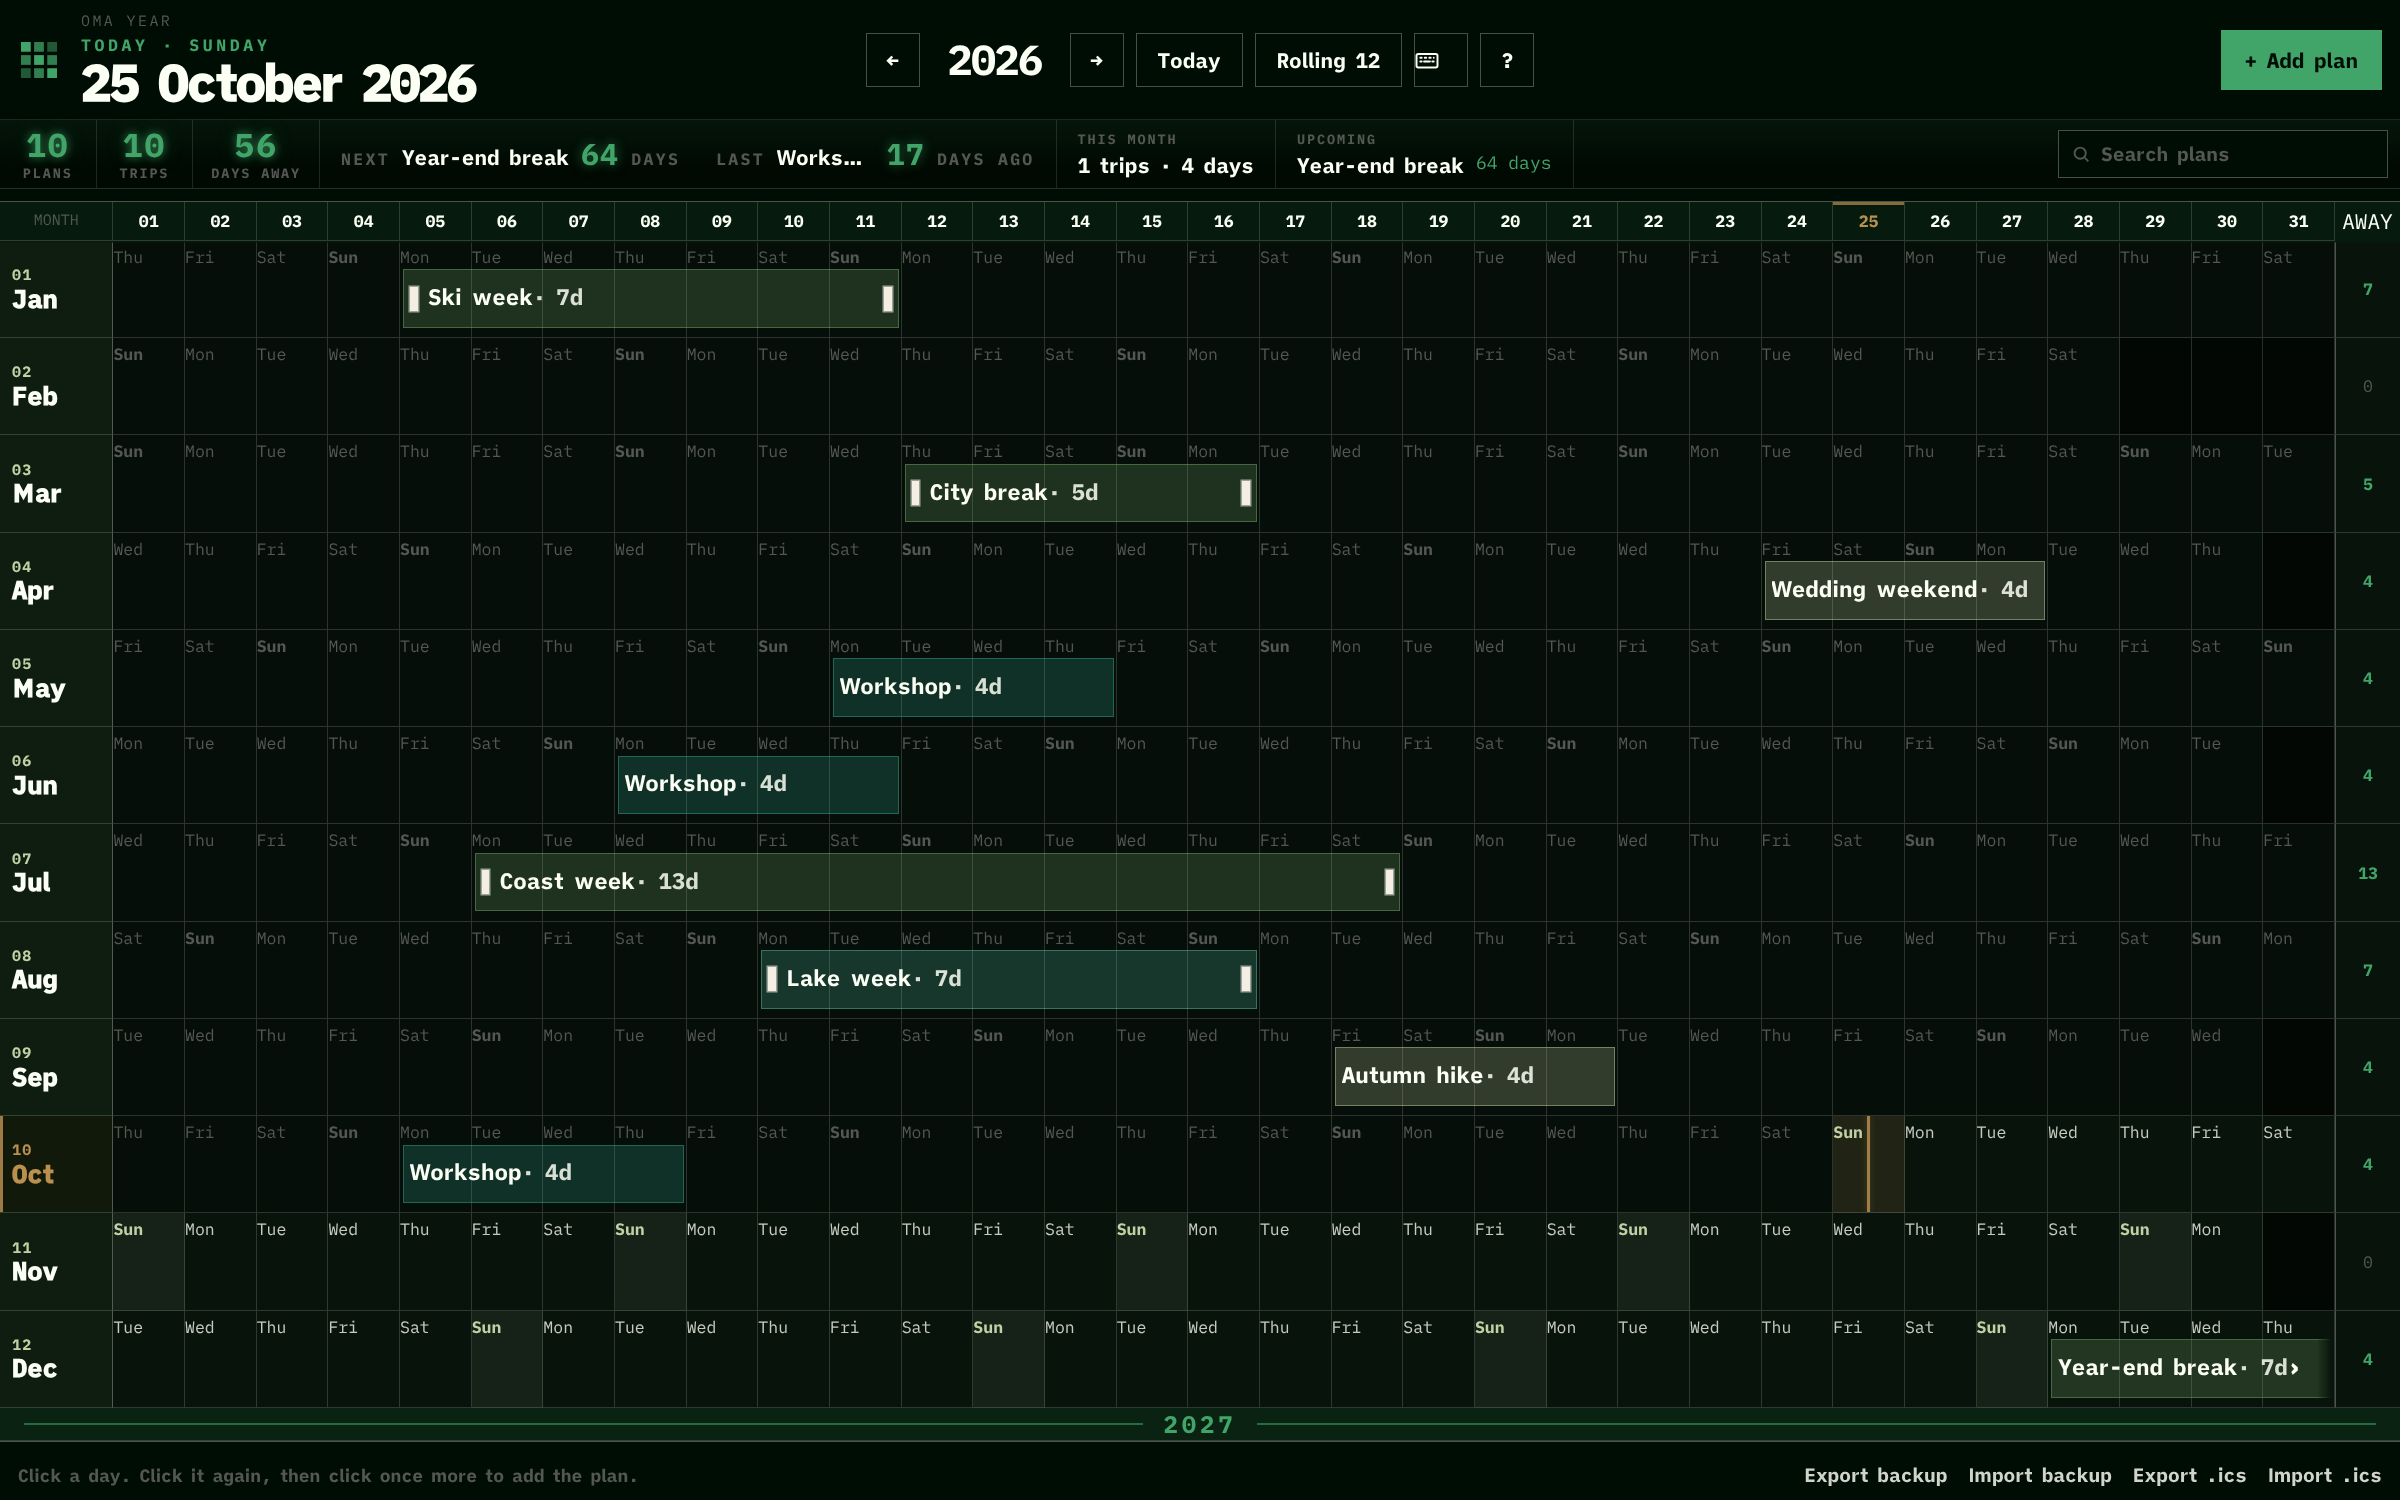
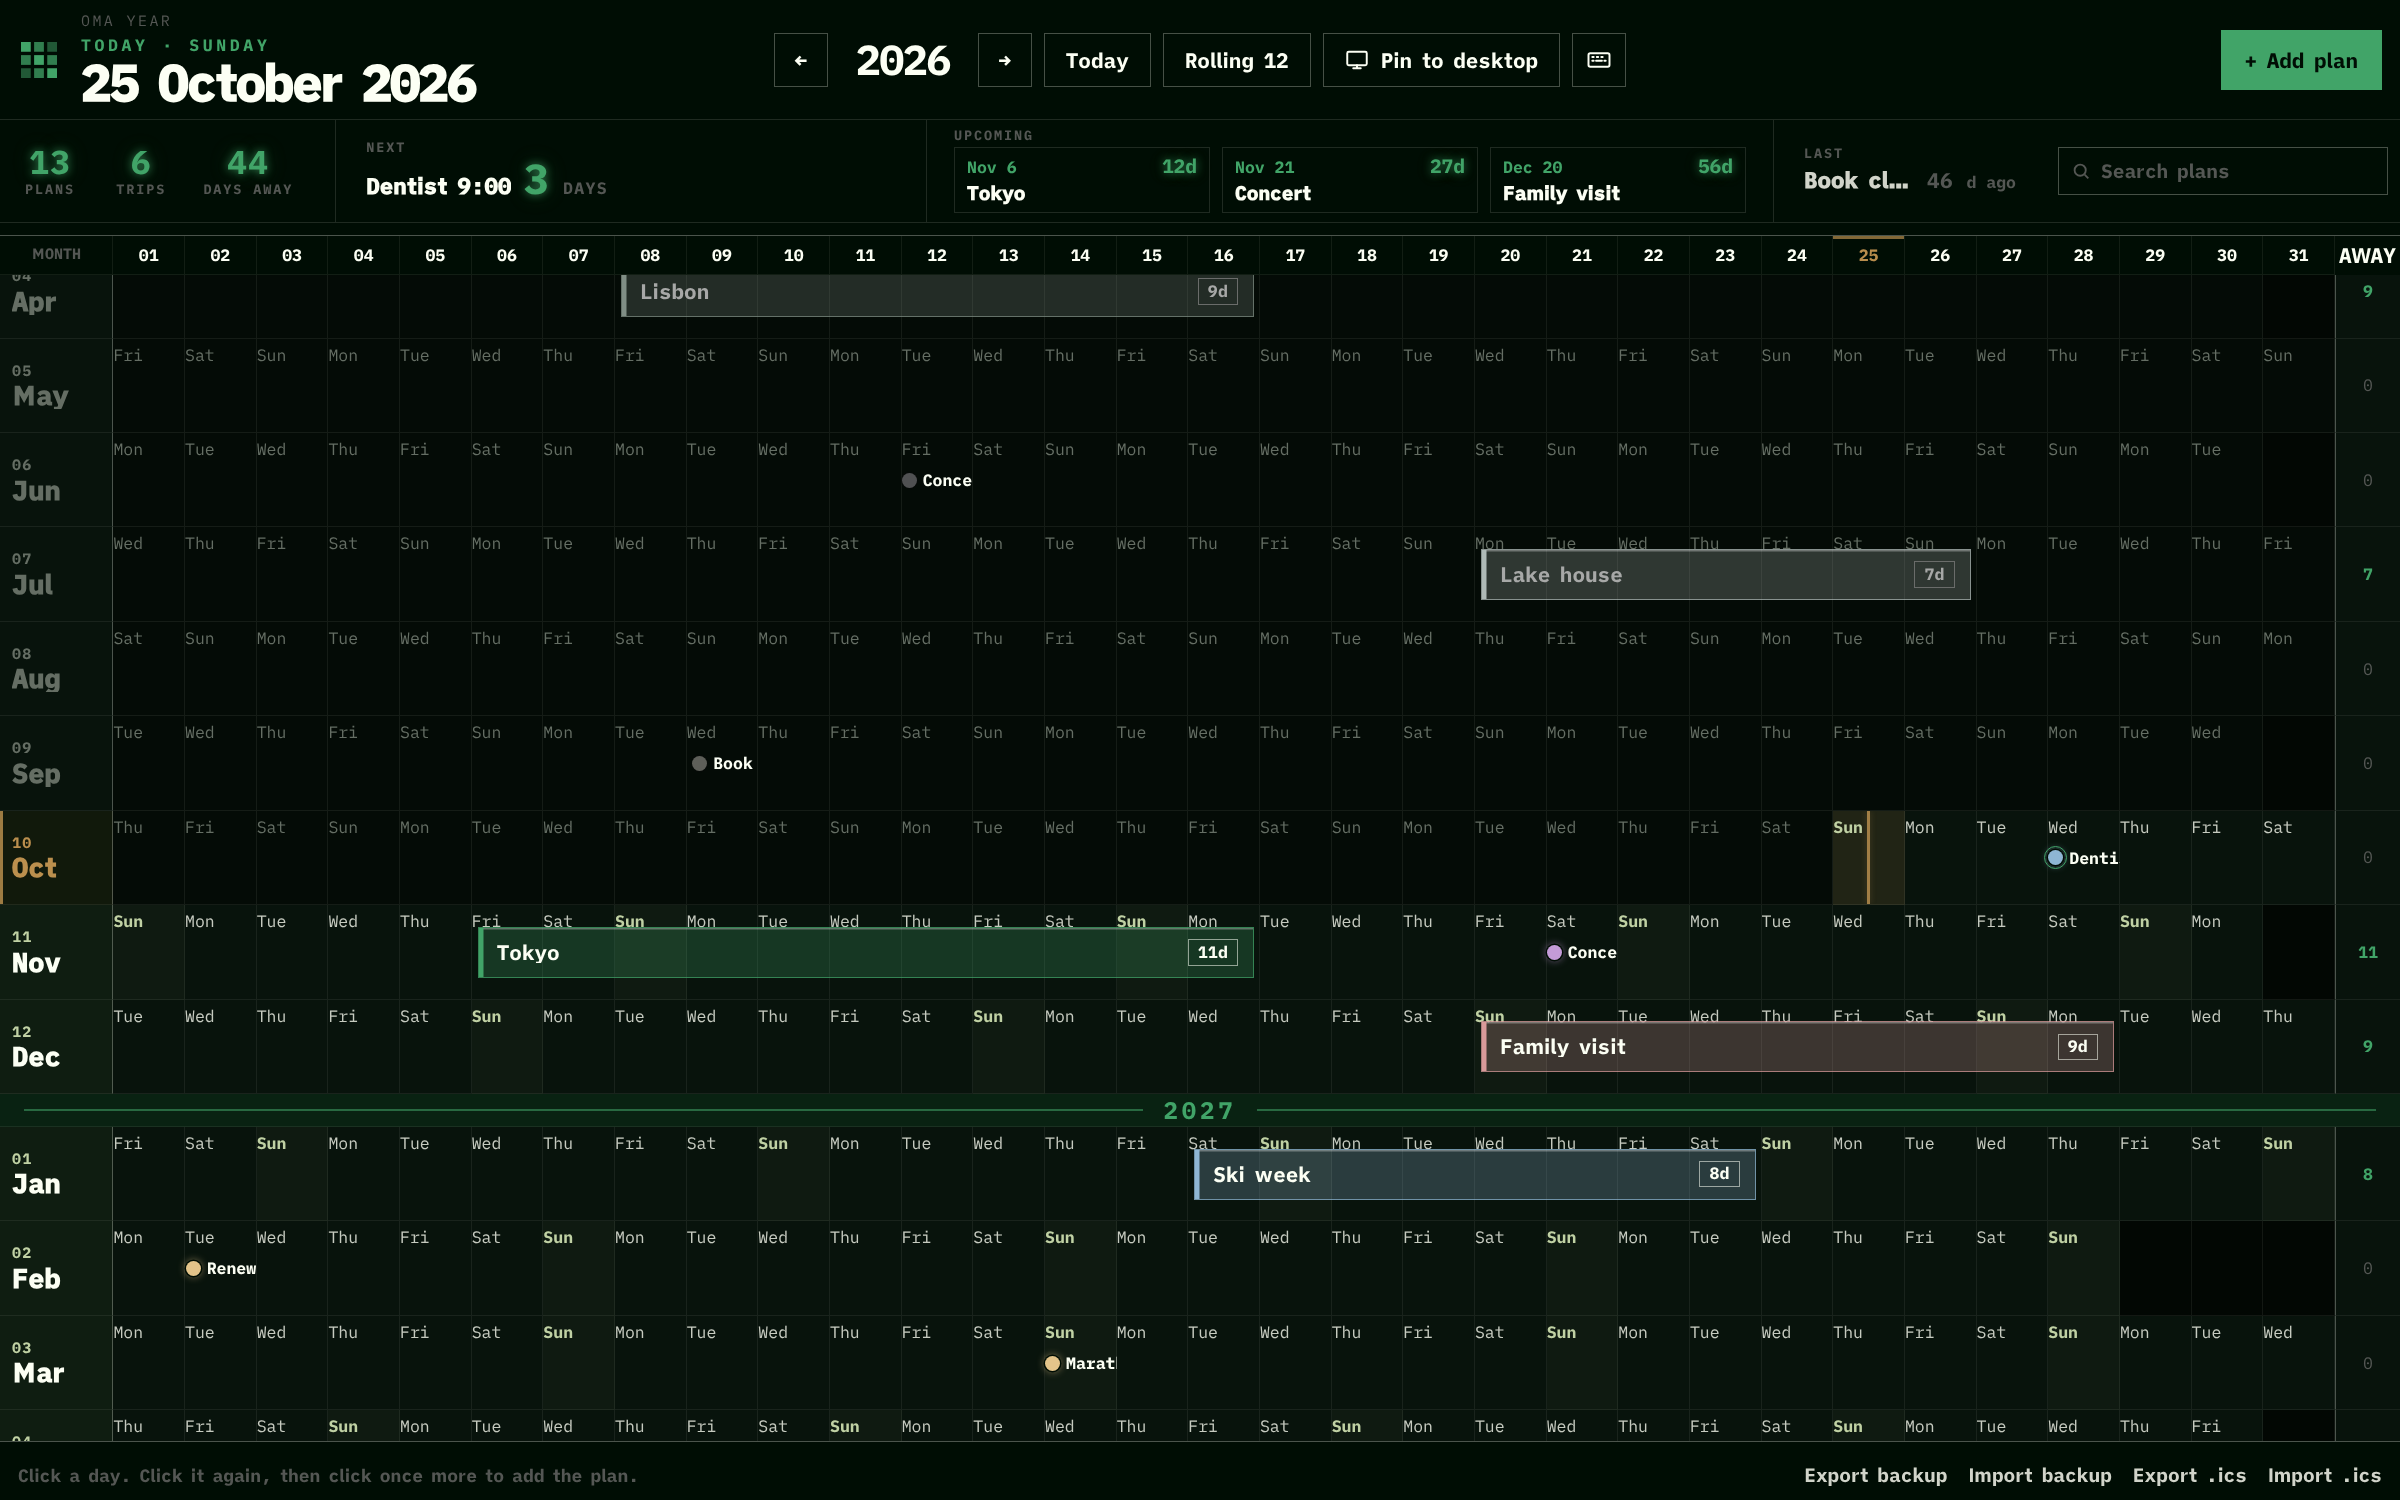
1.1.0: fresh demo preview, README for Pin to desktop and the new dashboard

diff --git a/README.md b/README.md
@@ -10,16 +10,17 @@
 
 ## Features
 
-- **Whole year at a glance.** Months run down one scrolling board, with the day numbers pinned at the top. "Rolling 12" starts at the current month.
+- **Whole year at a glance.** Months run down one scrolling board. The day header stays pinned while the months scroll. "Rolling 12" starts at the current month, and **Today** brings the current month back to the middle.
+- **Past fades back.** Past months and finished plans dim, so what is ahead stands out.
 - **Fast planning.** Drag across days to add a plan, drag a bar to move it, or drag its ends to resize it.
 - **Trips, events and reminders.** One-day plans show as small markers. Trips add up to a "days away" count per month and for the year.
-- **Dashboard strip.** Shows the next and last plan, this month, what's coming up, and how many days you've been away.
+- **Dashboard strip.** Counts for plans, trips and days away, then Next, Up next and Last. A wide window shows three Upcoming plans. A narrow window keeps Next, Up next and Last on one line.
 - **Notes, links, checklists and up to four images per plan.** Checklist progress shows on the bar, for example `Canada · 8d · 3/7`.
 - **Search** with `/`, **undo** with `Ctrl+Z`, and full keyboard navigation (press `?`).
 - **Backup and calendar files.** Export and import JSON backups, with or without images, and `.ics` calendar files.
 - **Matches your Omarchy theme.** The planner reads the colors from your active theme each time it opens.
 - **Bar button.** Left-click opens the planner. Right-click pins the board on the wallpaper, or puts your wallpaper back.
-- **Wallpaper mode.** A still picture of your year, laid over your wallpaper and painted again at midnight.
+- **Pin to desktop.** A still picture of your year, laid over your wallpaper and painted again at midnight. Pin or unpin it with the **Pin to desktop** button in the header, the `W` key, a right-click on the bar button, or an optional `Super+Shift+Y` shortcut. Nothing on the picture clicks or moves.
 - **Google Calendar, if you want it.** Optional and read-only. It is off by default. You bring your own Google OAuth client id and run `./serve`. See [year-planner/README.md](year-planner/README.md#google-calendar).
 
 ## Privacy
@@ -31,6 +32,7 @@ Everything stays on your machine.
 - The page makes no network requests unless you connect Google Calendar. Then events come straight from Google to your browser, read-only. Nothing is sent back.
 - Data leaves your device only when you export a file yourself.
 - Wallpaper mode copies Chromium's local storage into a temporary folder so the picture can show your plans. It takes the picture there and deletes the copy.
+- `./open` starts a small helper so the **Pin to desktop** button can work from a local file. It listens only on `127.0.0.1:47321` and accepts only pin, unpin, toggle and status. It keeps running until you log out.
 
 ## Install as an Omarchy plugin
 
@@ -40,7 +42,7 @@ omarchy plugin add https://github.com/KarPage/oma-year-planner --enable
 
 This adds a calendar button to your bar. Left-click opens the planner in its own app window, themed with your current Omarchy colors. Right-click pins the board onto the wallpaper, or restores your wallpaper. If the button doesn't show up, add **Oma Year Planner** to the bar from the bar settings.
 
-You need Chromium (it ships with Omarchy), Python 3 for the theme sync, and ImageMagick (`magick`) for wallpaper mode.
+You need Chromium (it ships with Omarchy), Python 3 for the theme sync and the pin helper, `curl`, and ImageMagick (`magick`) for wallpaper mode.
 
 ### Remove the plugin
 
@@ -56,7 +58,10 @@ If you ever used wallpaper mode, remove its timer and saved state too:
 systemctl --user disable --now oma-year-wallpaper.timer
 rm -f ~/.config/systemd/user/oma-year-wallpaper.service ~/.config/systemd/user/oma-year-wallpaper.timer
 rm -rf ~/.local/state/oma-year
+pkill -f year-planner/bridge
 ```
+
+If you added the `Super+Shift+Y` shortcut, delete that line from `~/.config/hypr/yearplanner.lua`.
 
 Your plans are saved in Chromium, not in the plugin folder, so removing the plugin doesn't delete them. Export a backup first (**Export backup** in the footer) if you want a copy. To clear them, clear the planner's site data in Chromium.
 
@@ -84,7 +89,9 @@ A still picture of the board, laid over the desktop. Nothing on it clicks or mov
 
 Right-click the bar button to toggle it. While it is pinned, the picture is painted again at midnight, and again when the planner window closes.
 
-Optional shortcut, so you can unpin when the planner is closed. Add it to `~/.config/hypr/yearplanner.lua` (the path is this plugin's `year-planner/wallpaper`):
+In the planner, the **Pin to desktop** button and the `W` key do the same thing.
+
+Optional Hyprland shortcut, so you can unpin when the planner is closed. This is a step you add yourself; the plugin does not change your Hyprland config. Add it to `~/.config/hypr/yearplanner.lua` (or wherever you keep binds), with the path to this plugin's `year-planner/wallpaper`. When installed as a plugin, that is `~/.config/omarchy/plugins/io.github.karpage.oma-year/year-planner/wallpaper`:
 
 ```lua
 o.bind("SUPER + SHIFT + Y", "Pin or unpin the year planner", "/path/to/year-planner/wallpaper toggle")
@@ -125,6 +132,7 @@ oma-year-planner/
     ├── branding/     # icon.svg, icon-512.png, lockup.svg, lockup.png
     ├── open          # theme sync + app window launcher
     ├── wallpaper     # pin the board on the desktop
+    ├── bridge        # 127.0.0.1-only helper for the Pin to desktop button
     └── serve         # local server for the offline app
 ```
 
